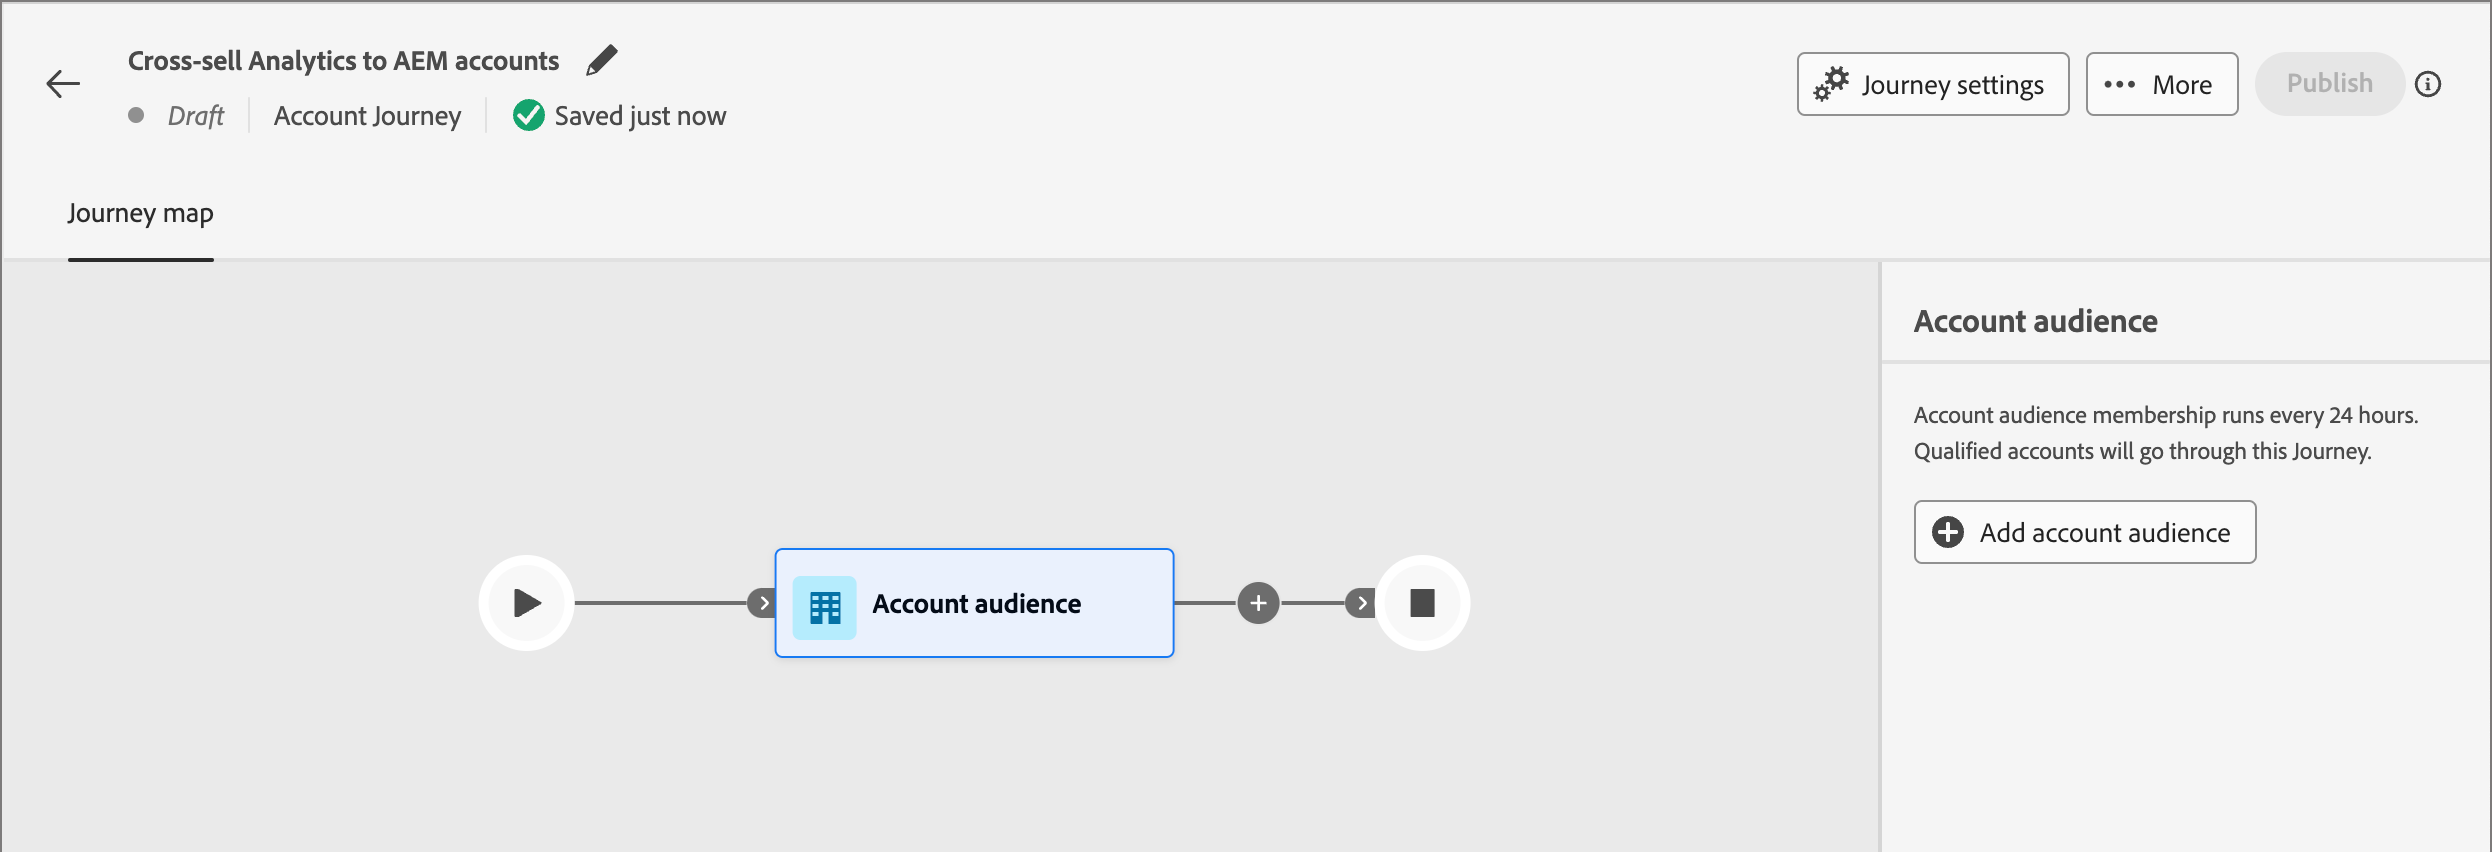
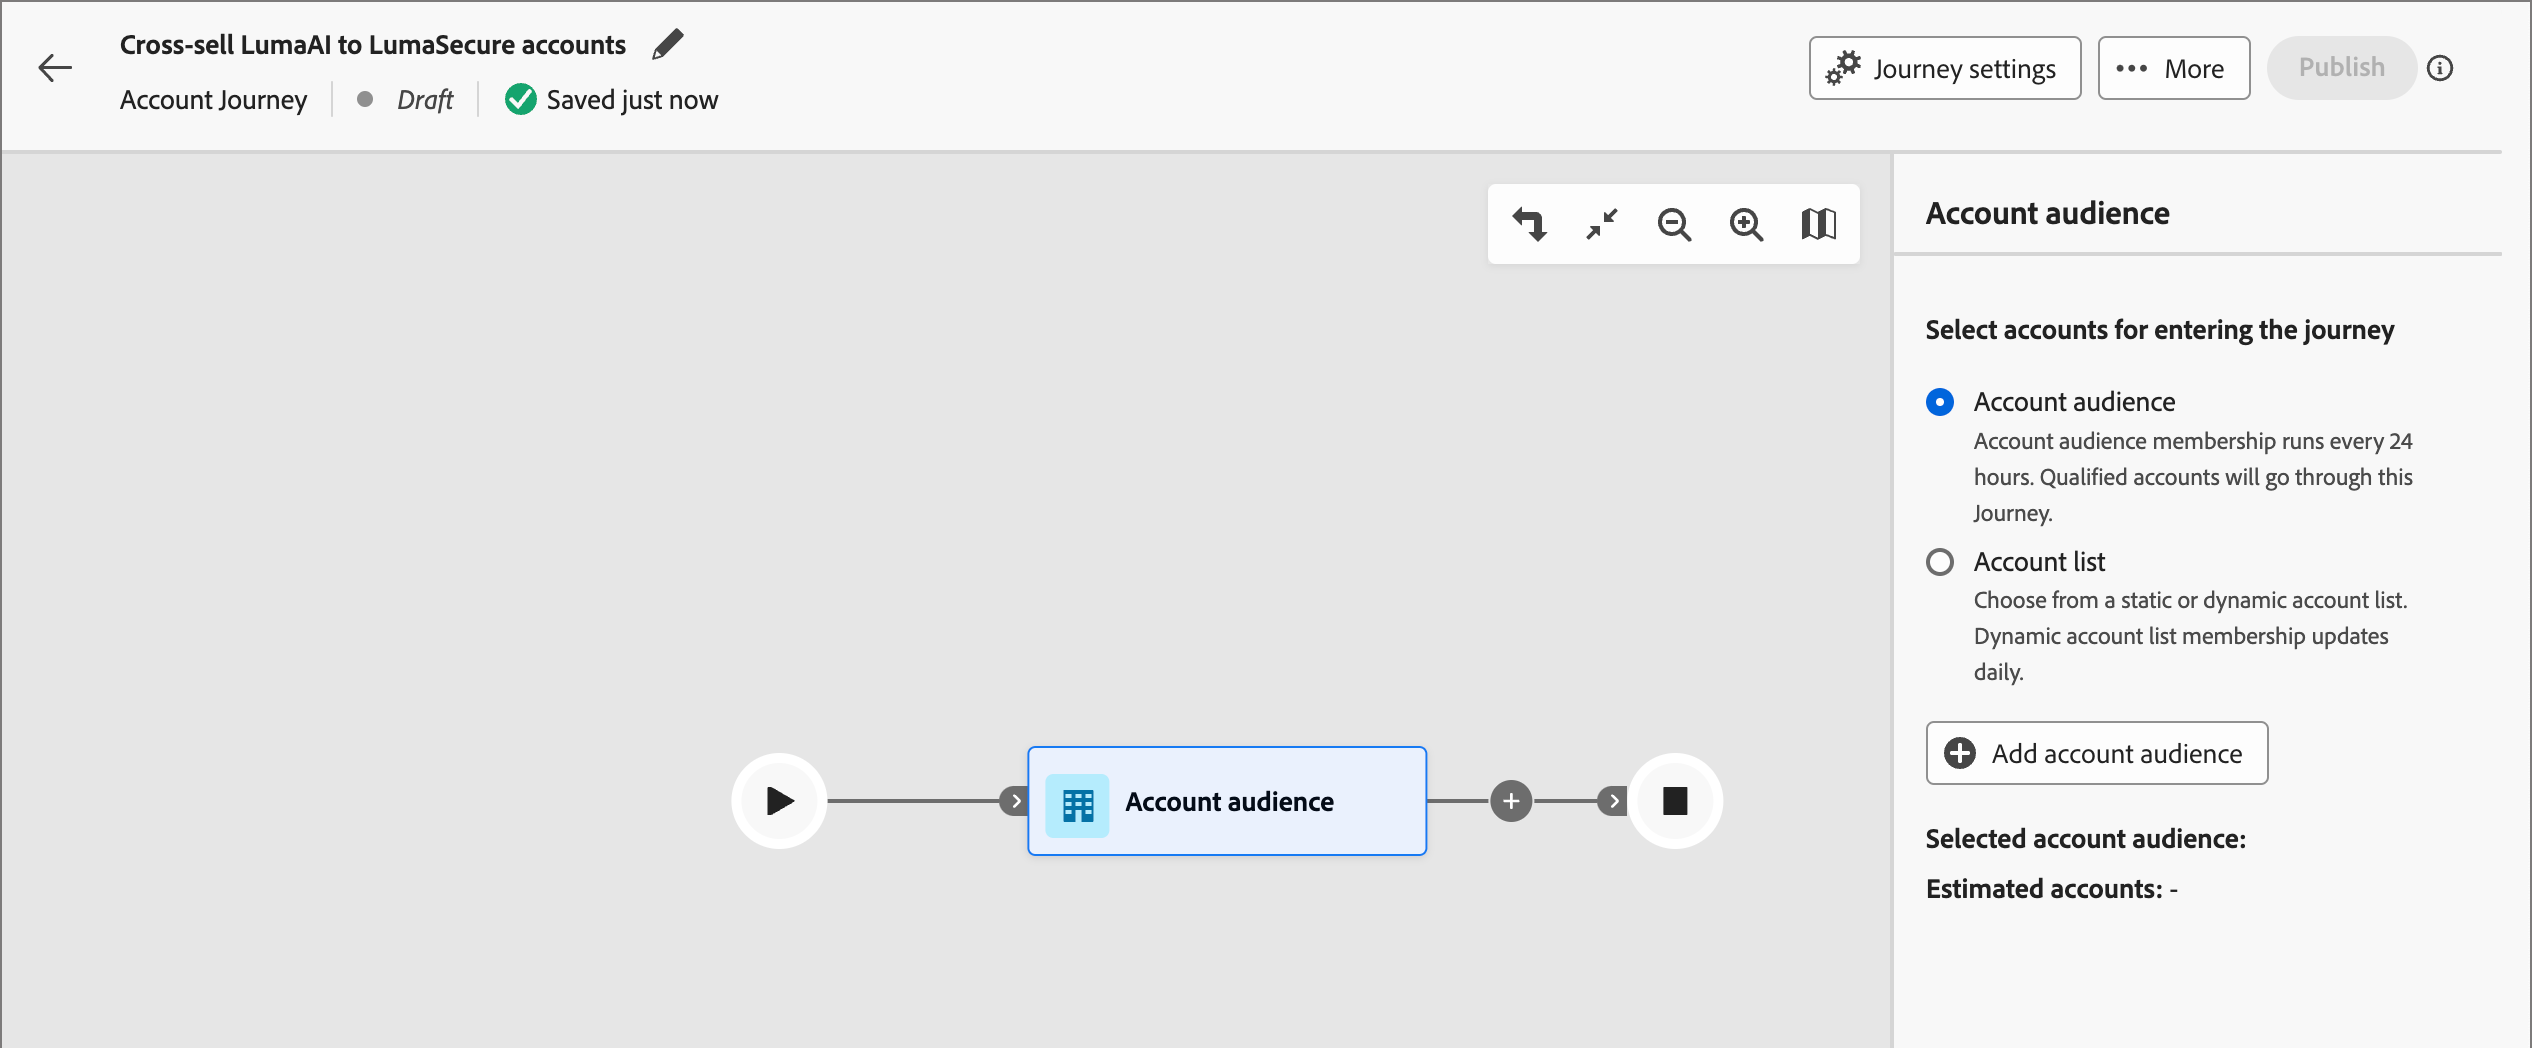
Update account audience node for account lists

diff --git a/help/user/journeys/account-audience-nodes.md b/help/user/journeys/account-audience-nodes.md
@@ -1,12 +1,17 @@
 ---
 title: Account Audience Nodes
-description: Learn about the account audience node type that you can use for orchestrating your account journeys in Journey Optimizer B2B Edition.
+description: Learn about the account audience node type that you can use for defining the input for your account journeys in Journey Optimizer B2B Edition.
 feature: Account Journeys
 exl-id: 288ac5a8-79ed-4654-8ac1-83da2af04f2c
 ---
 # Account audience journey nodes
 
-The Account Audience node defines the input account audience (created and managed in Adobe Experience Platform) for the journey. When you [create an account journey](./journey-overview.md#create-an-account-journey), it always starts with an _Account Audience_ node where you can add input to your journey.
+The Account audience node defines the input account audience (created and managed in Adobe Experience Platform) for the journey. When you [create an account journey](./journey-overview.md#create-an-account-journey), it always starts with an _Account audience_ node that defines the input for the journey.
+
+There are two types of input that you can use for this node:
+
+* **[Account audience](../audiences/account-audience-overview.md)** - This is the basic audience that is synched from the Experience Platform Segmentation Service.
+* **[Account list](../accounts/account-lists.md)** - This is a collection of named accounts that you can use for targeted journey orchestration. An account list targets named accounts by the defined criteria, such as industry, location, or size of the company.
 
 _To set the audience for the node:_
    
@@ -14,11 +19,23 @@ _To set the audience for the node:_
 
    ![Account audience node](./assets/account-journey-account-audience-node.png){width="700" zoomable="yes"}
 
-1. Click **[!UICONTROL Add account audience]**.
+1. Choose the input type for accounts to enter the journey:
 
-1. In the _[!UICONTROL Add audience]_ dialog, select an audience segment that was previously created and click **[!UICONTROL Add audience]**.
+   * **[!UICONTROL Account audience]**
 
-   ![Account audience node](./assets/node-audience-add-dialog.png){width="700" zoomable="yes"}
+     Choose this type and then click **[!UICONTROL Add account audience]**.
+
+     In the _[!UICONTROL Add audience]_ dialog, select an audience segment that was previously created and click **[!UICONTROL Add audience]**.
+
+     ![Select an audience segment for the node](./assets/node-audience-add-dialog.png){width="700" zoomable="yes"}
+     
+   * **[!UICONTROL Account list]**
+
+     Choose this type and then click **[!UICONTROL Add account list]**.
+
+     In the _[!UICONTROL Select live account list]_ dialog, select an account list that was previously published and click **[!UICONTROL Save]**.
+
+     ![Select a live account list for the node](./assets/account-journey-account-audience-select-account-list.png){width="700" zoomable="yes"}     
 
 _To create an audience segment:_
 

diff --git a/help/user/journeys/action-nodes.md b/help/user/journeys/action-nodes.md
@@ -21,7 +21,7 @@ Use an action on accounts when you want to apply a change to all people that are
 | [!UICONTROL Account Change Data Value] | Select attribute<br/>New value |
 | [!UICONTROL Account Interesting Moment] | Type (Email, Milestone, or Web)<br/>Description (optional)|
 | [!UICONTROL Add Account to (other) Journey] | Select live Account Journey |
-| [!UICONTROL Add to account list] | Select a live static account list |
+| [!UICONTROL Add to account list] | Select live static account list |
 | [!UICONTROL Remove Account from Journey] | Select live Account Journey |
 | [!UICONTROL Remove from account list] | Select a live static account list |
 | [!UICONTROL Send Sales Alert] | Select solution interest<br/>Send email to|
